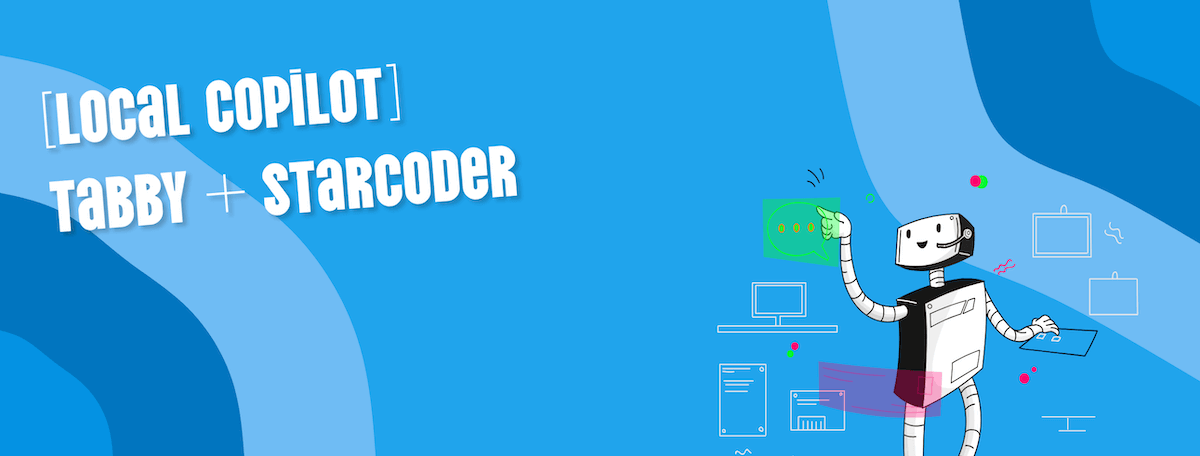
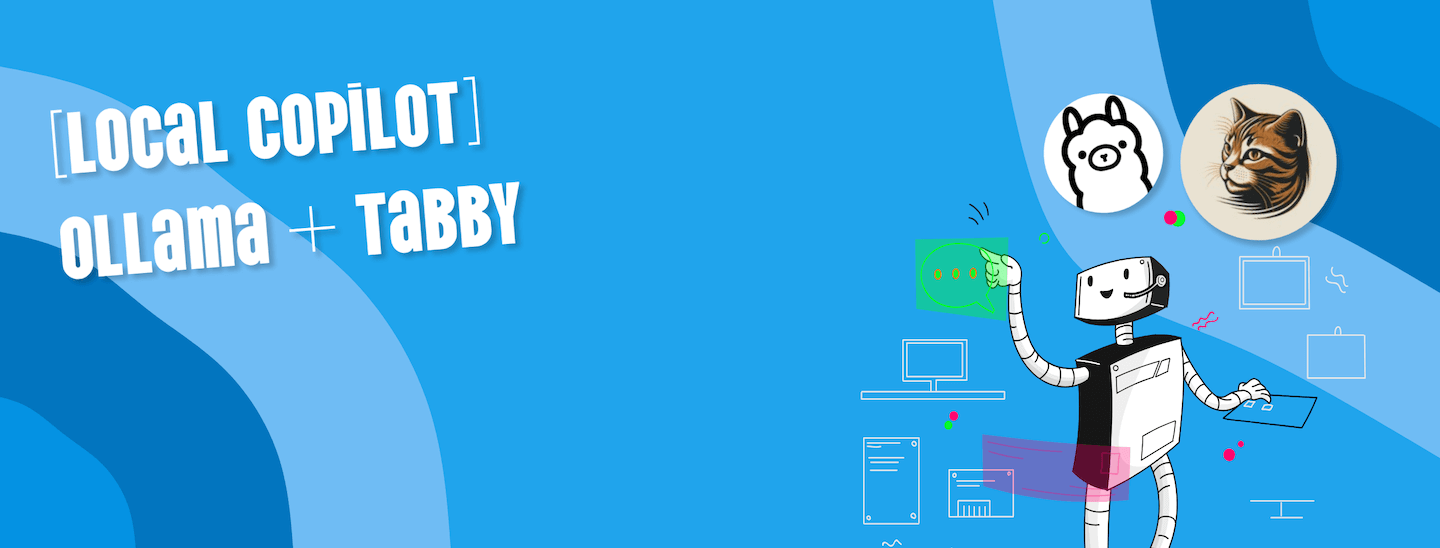
updated info in other posts

diff --git a/content/blog/llm/local-copilot-your-own-off-the-grid-and-local-code-assistant/index.md b/content/blog/llm/local-copilot-your-own-off-the-grid-and-local-code-assistant/index.md
@@ -1,9 +1,10 @@
 ---
-title: "[Local Copilot] Tabby + StarCoder"
+title: "[Local Copilot] Ollama + Tabby"
 date: 2024-03-03
 authors:
   - name: Nishant Srivastava
     link: /about/
+tags: ["llm"]
 ---
 
 ![Banner](banner.png)

diff --git a/content/blog/llm/local-gpts-off-the-grid-on-your-machine/index.md b/content/blog/llm/local-gpts-off-the-grid-on-your-machine/index.md
@@ -4,6 +4,7 @@ date: 2023-12-04
 authors:
   - name: Nishant Srivastava
     link: /about/
+tags: ["llm"]
 ---
 
 ![Banner](banner.png)
